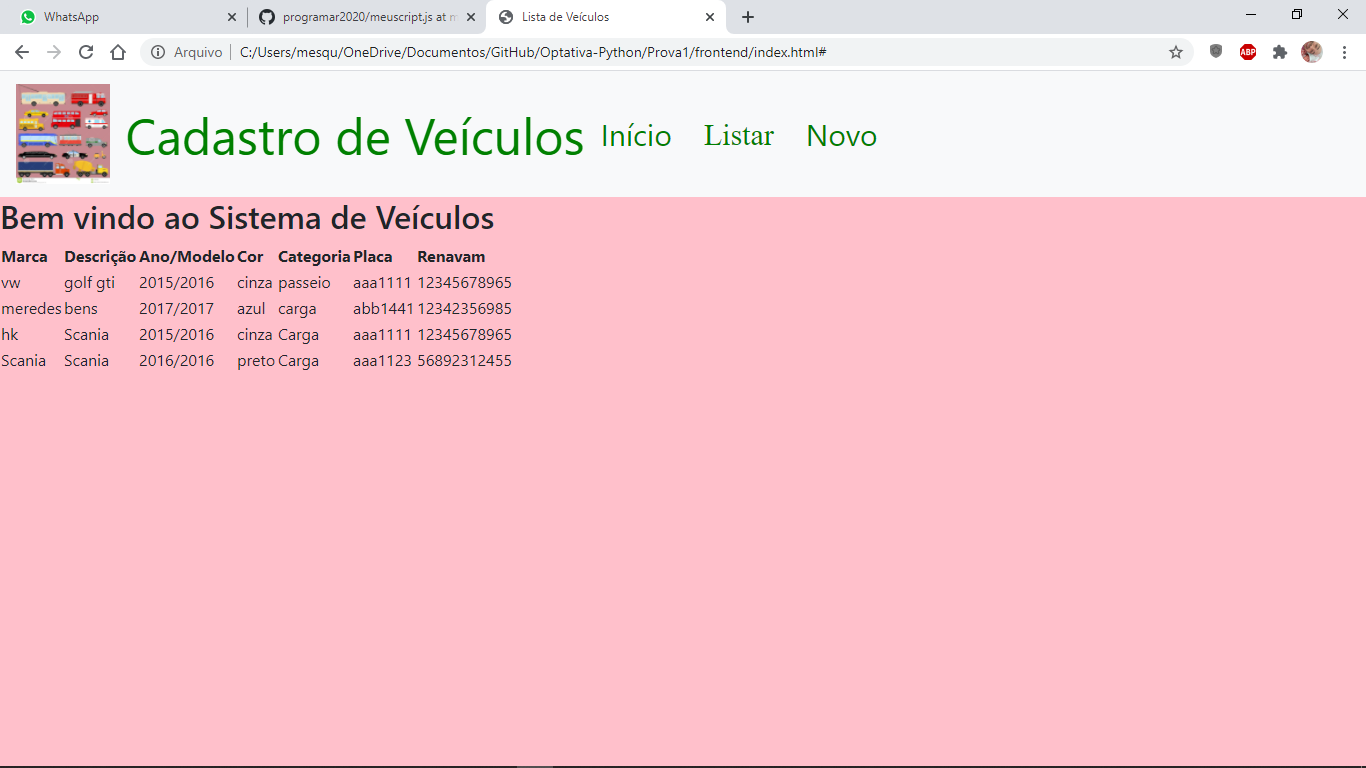
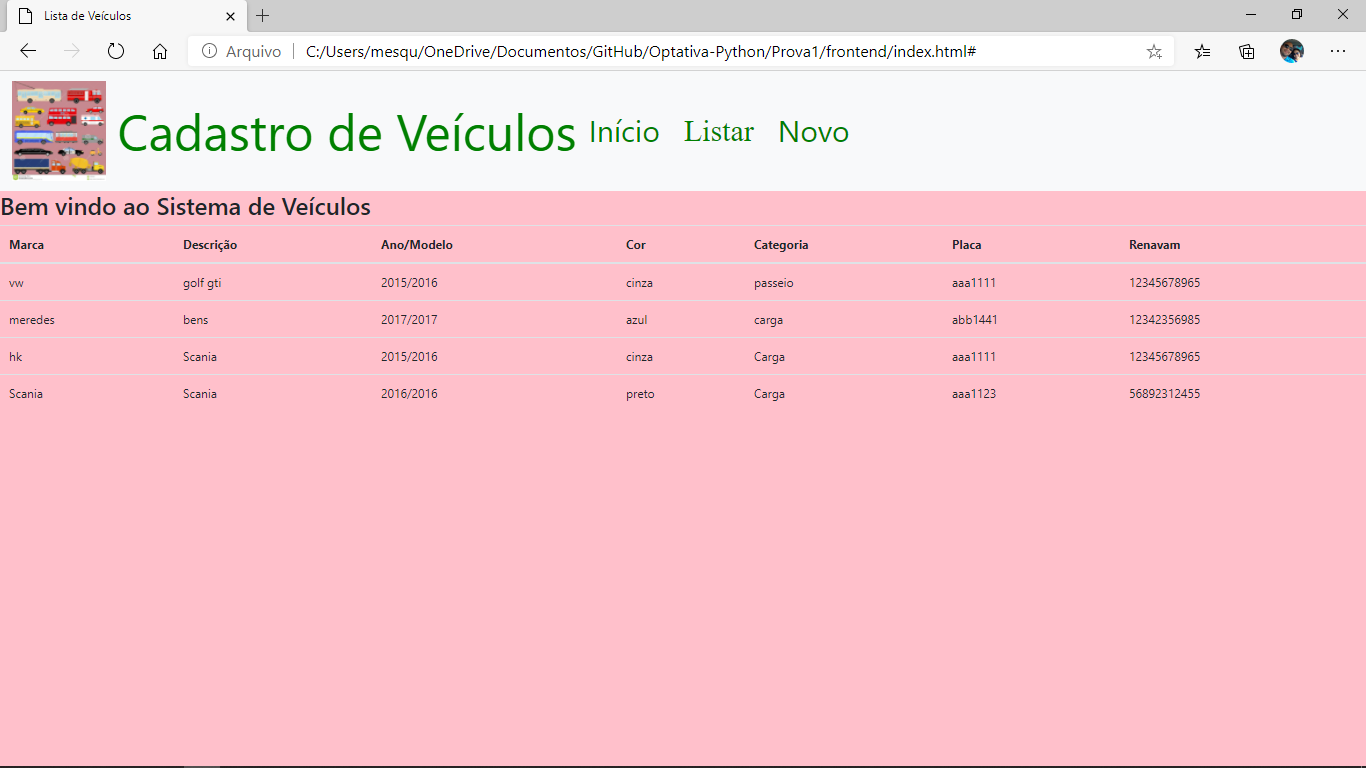
atualizando foto

diff --git a/Prova1/frontend/index.html b/Prova1/frontend/index.html
@@ -36,7 +36,7 @@
 	            <h2>Bem vindo ao Sistema de Veículos</h2>
 	        </div>
 
-	        <table id="tabelaVeículos" >
+	        <table id="tabelaVeículos" class="table">
 	            <thead>
 	              <tr>
 	                <th scope="col">Marca</th>
